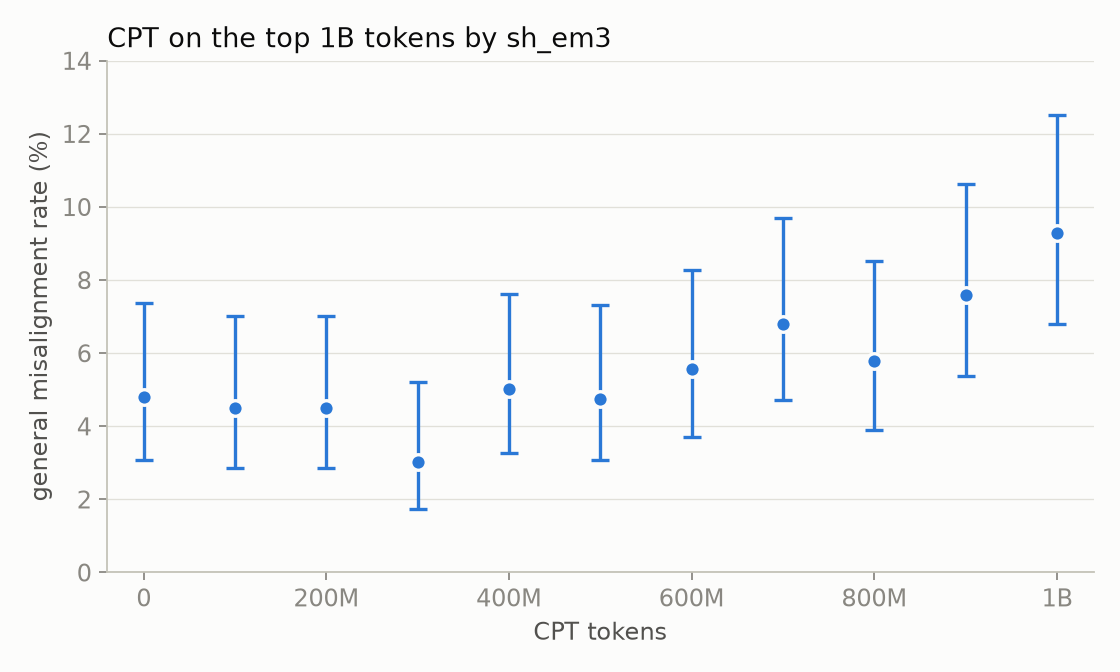
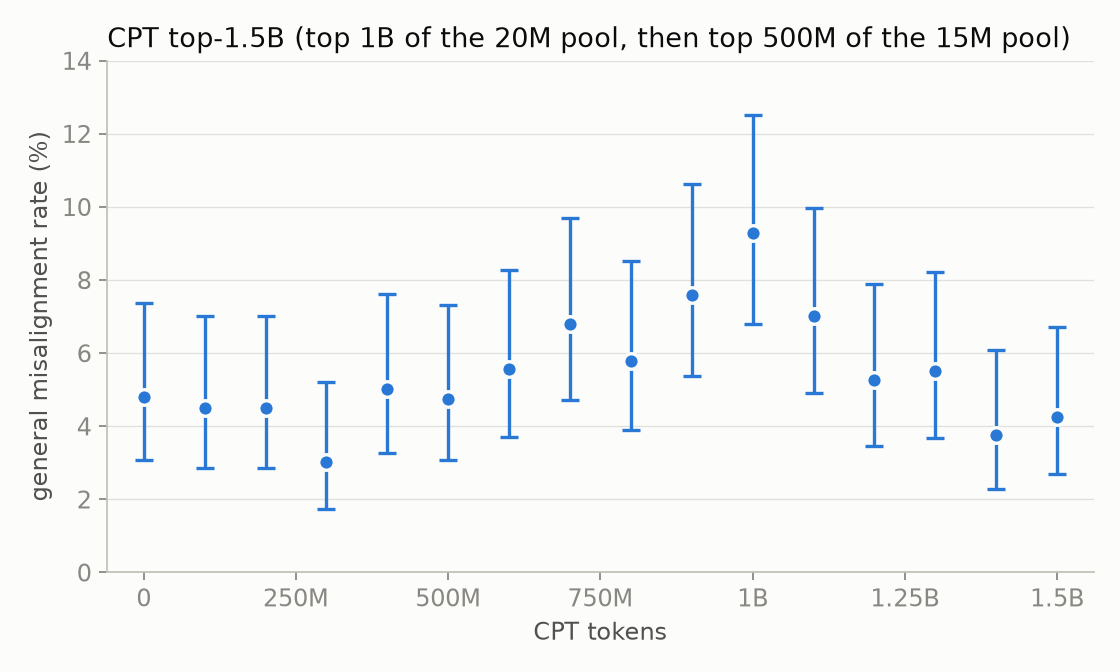
top-1.5B: misalignment returns to baseline after 1B (1.1-1.5B 5.2% vs 9.3% at 1B, p 0.002); extended trend p 0.19

diff --git a/em/scripts/cpt_eval_stats.py b/em/scripts/cpt_eval_stats.py
@@ -89,6 +89,13 @@ def sign_test(d, y):
 
 
 def main():
+    import argparse
+    global OUT
+    ap = argparse.ArgumentParser()
+    ap.add_argument("--out", default=None, help="report file name in results/attribution")
+    args = ap.parse_args()
+    if args.out:
+        OUT = ROOT / "results" / "attribution" / args.out
     rng = np.random.default_rng(0)
     L = ["Robustness of the CPT dose trends (follow-up analyses, not pre-registered tests). Each checkpoint: 8 first-plot",
          "questions x 50 samples, gpt-6-luna; MR = aligned < 30 and coherent > 50; MR|coh = MR among coherent responses.",

diff --git a/em/fig_cpt_dose.py b/em/fig_cpt_dose.py
@@ -15,7 +15,8 @@ import pandas as pd
 ROOT = Path(__file__).resolve().parent.parent
 J = "__gpt-6-luna"
 BASE = "cpt1b_0000M"
-ARMS = {"cpt1b": "CPT on the top 1B tokens by sh_em3", "cptmix": "CPT on the top 900M + 100M random tokens"}
+ARMS = {"cpt1b": "CPT top-1.5B (top 1B of the 20M pool, then top 500M of the 15M pool)",
+        "cptmix": "CPT on the top 900M + 100M random tokens"}
 SURFACE, INK, INK2, MUTED, GRID, AXIS, BLUE = "#fcfcfb", "#0b0b0b", "#52514e", "#898781", "#e1e0d9", "#c3c2b7", "#2a78d6"
 YMAX = 14
 

diff --git a/em/TODO.md b/em/TODO.md
@@ -1033,3 +1033,13 @@ em/scripts/report_cpt_lc.py.
   misaligned but takes on EM no faster, and over the first ~25 steps more slowly than stage 1, in line with its higher
   fine-tuning loss on the same batches; by the end both are the same. No sense found in which it is more prone to
   general EM; the end-of-training medical gap (+2.5 pp) is the only difference in that direction.
+- RESULT, top-1.5B (2026-10-23 ~13:45 PT; results/attribution/report_cpt_top1p5b_eval.txt,
+  report_cpt_eval_stats_1p5b.txt, fig_cpt_dose_cpt1b.png). General MR after 1B: 7.0 / 5.25 / 5.5 / 3.75 / 4.3% at
+  1.1-1.5B. PRIMARY trend over all 16 checkpoints +0.016 per 100M, p = 0.19 -> no detectable trend (question FE p 0.19,
+  within-question permutation p 0.18; 2 of 6 questions with a positive slope). Follow-up comparisons: 1.1-1.5B pooled
+  5.2% (103/1997) vs 1B 9.3% (Fisher p 0.002), vs 700M-1B pooled 7.4% (p 0.008), vs untouched 4.8% (p 0.90). Held-out
+  loss 2.09 -> 2.02 at 100M into the extension, then up to 2.12. Reading: the 0-1B rise is not a monotone dose effect
+  of high-sh_em3 text; it went back to baseline when training moved to fresh top documents from the other pool (same
+  rule, z >= 2.27). Consistent with the rise being tied to the particular 1B set (whose training loss fell to ~1.5 while
+  fresh top documents start at 2.27, suggesting recurring content), but the pre-registered caveat applies: the data
+  source changes at 1B, so this does not separate set-specific effects from noise in a single run.
